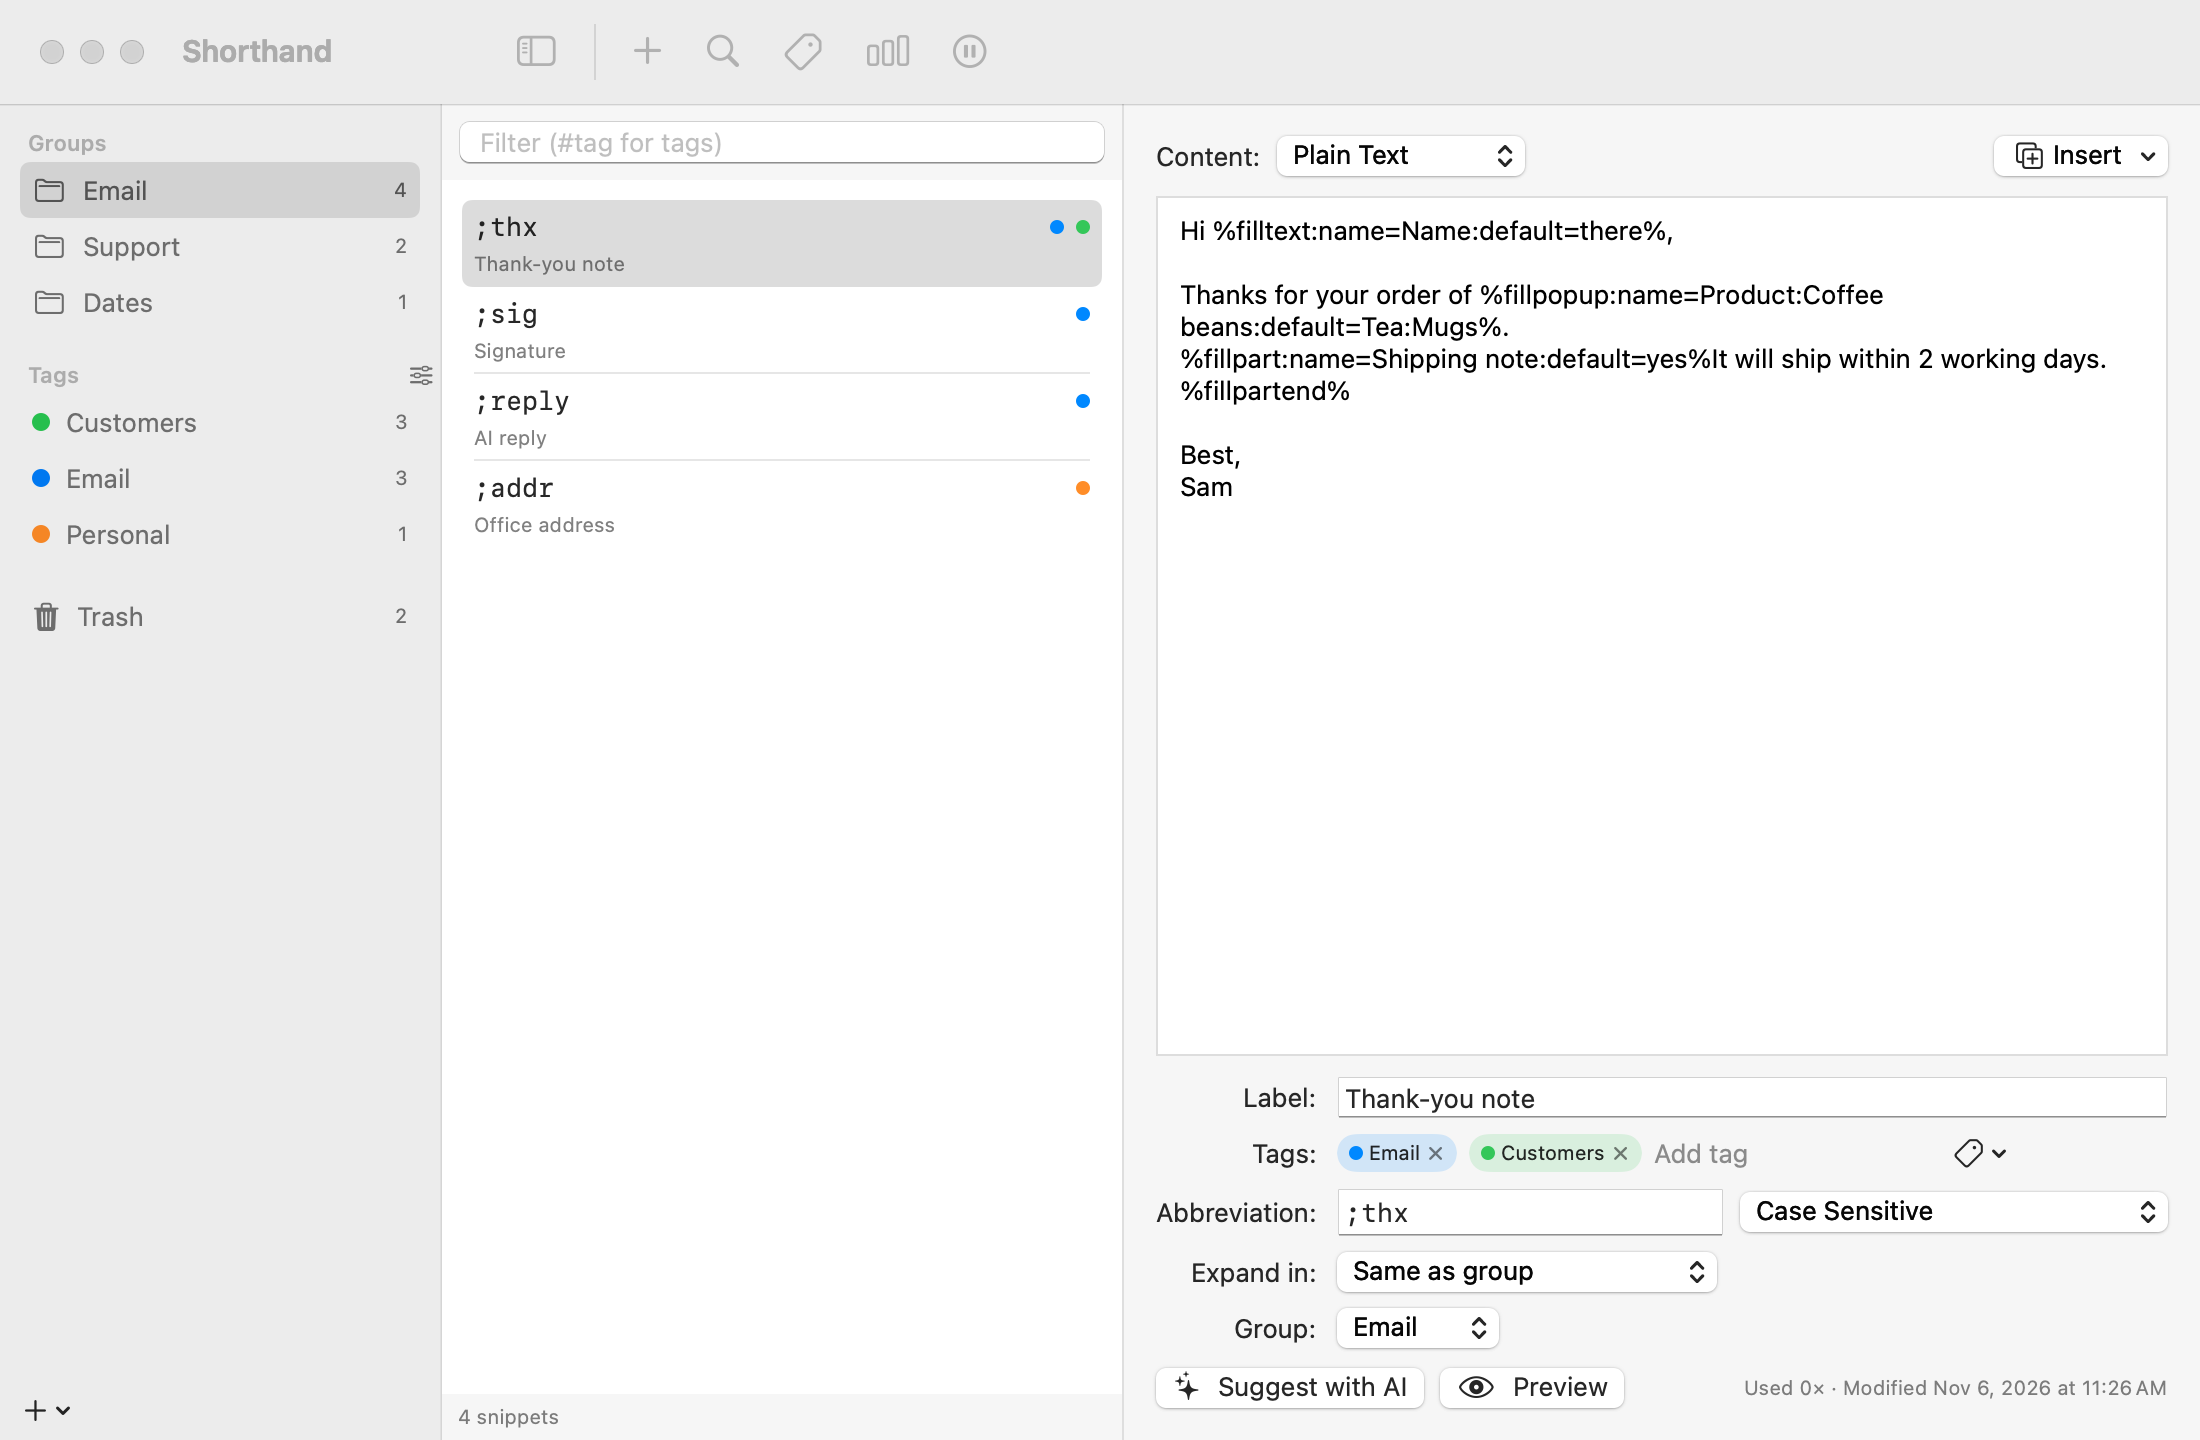
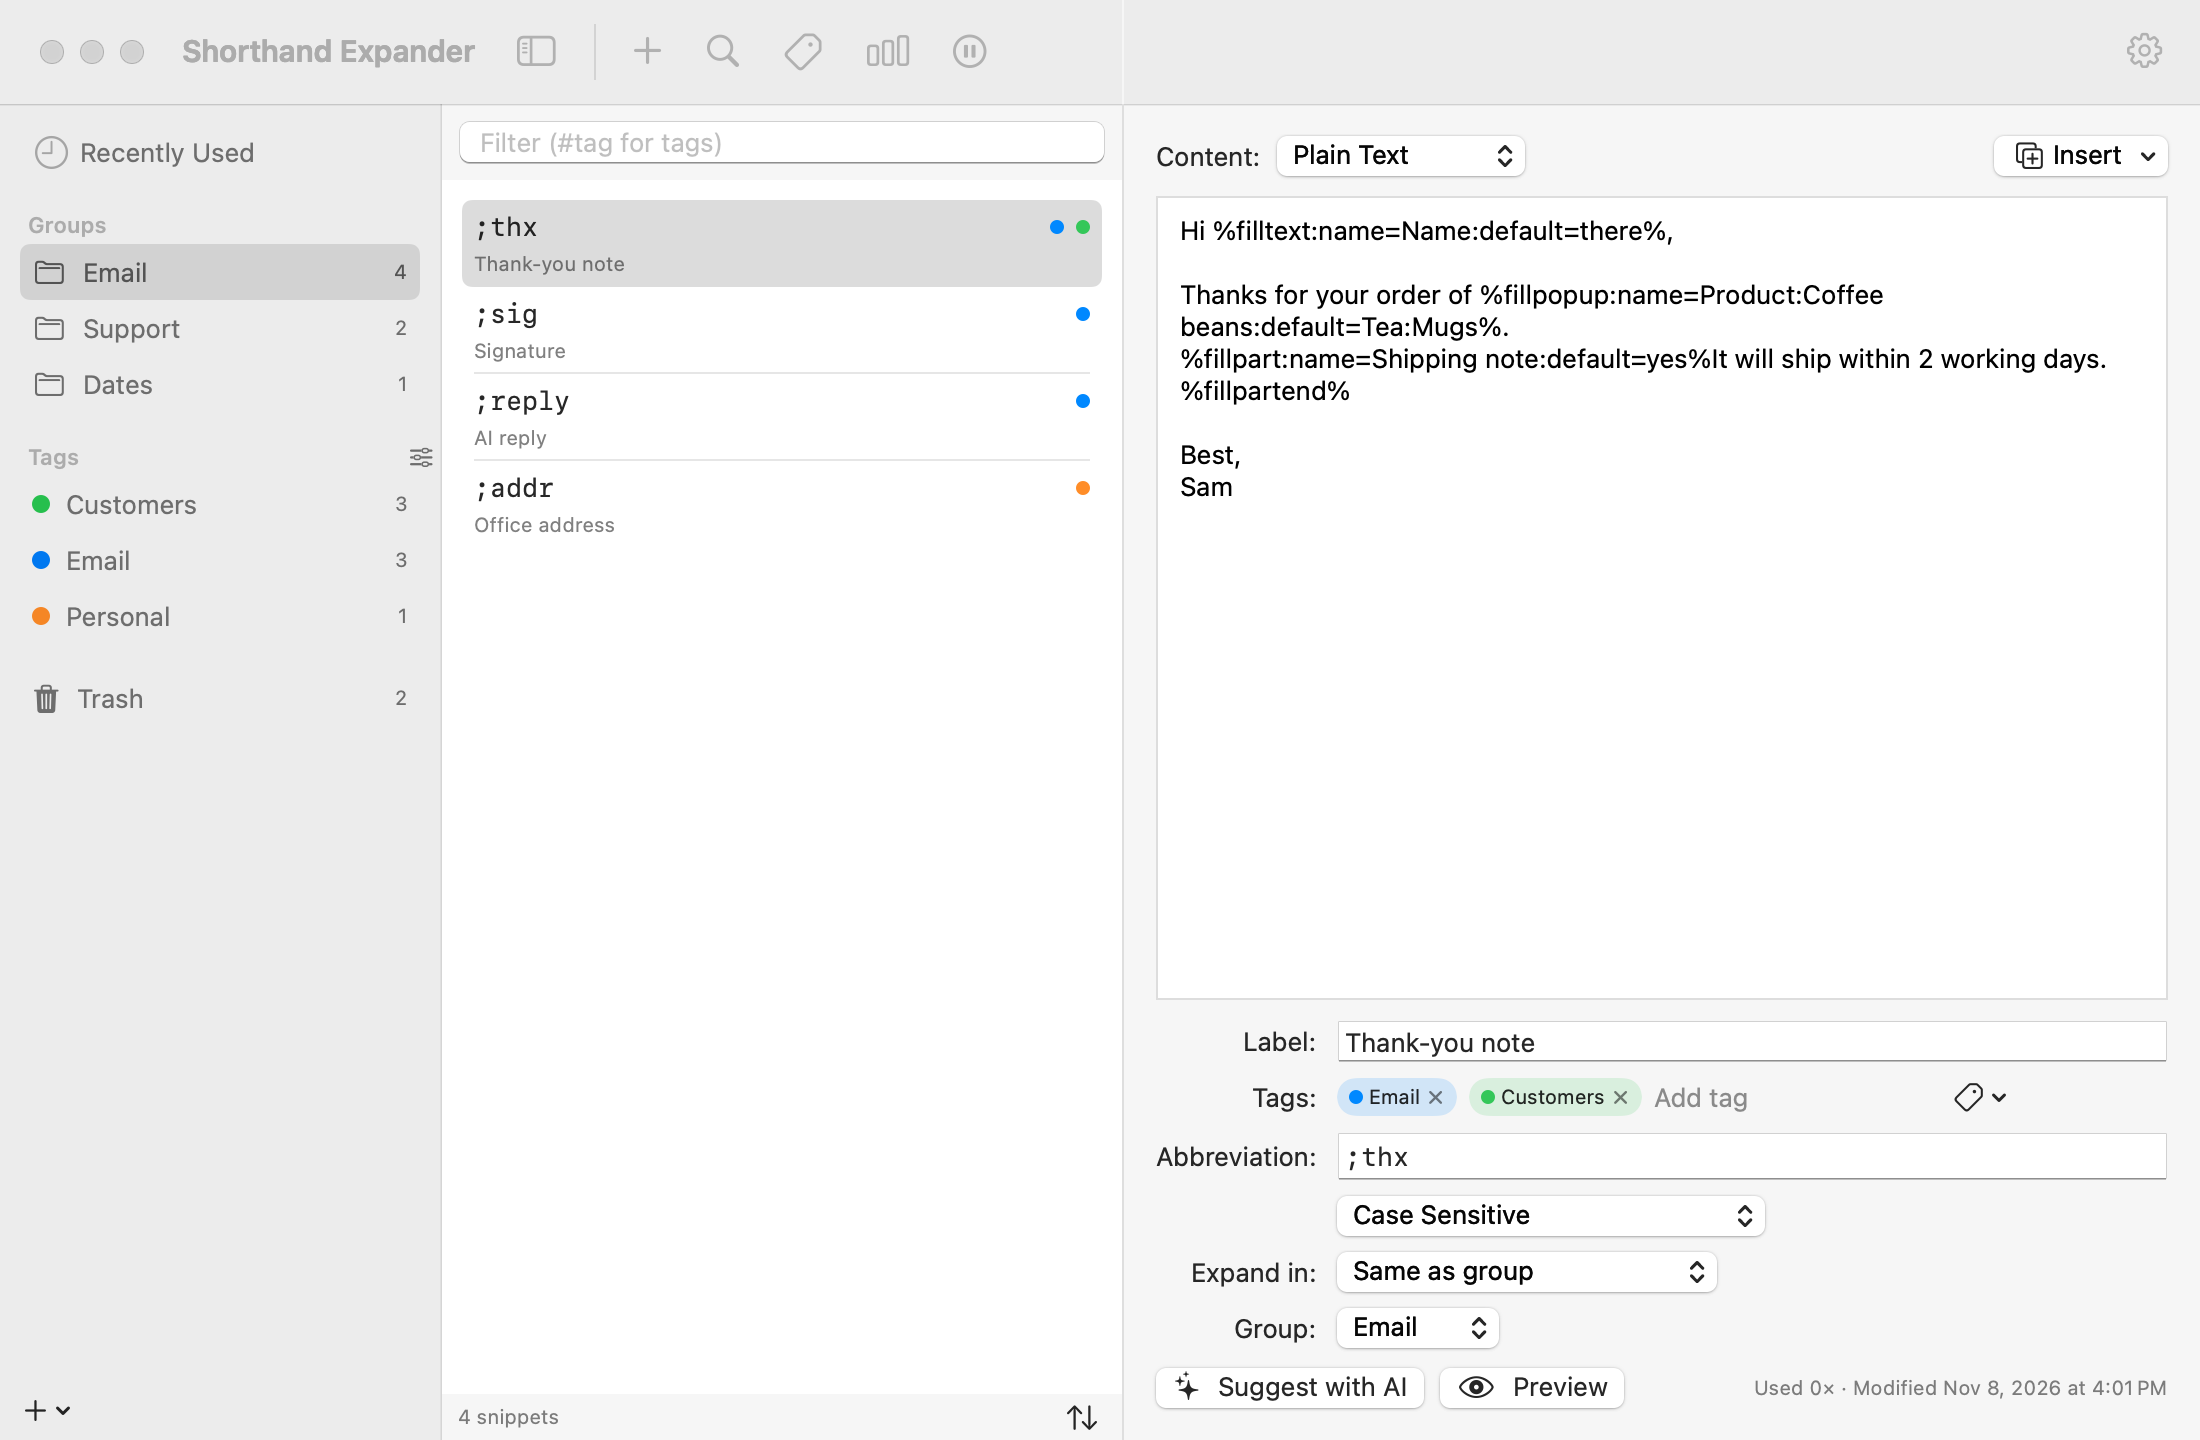
Docs for Shorthand 1.7.9

diff --git a/docs/snippets.html b/docs/snippets.html
@@ -45,9 +45,14 @@
 
 <h2 id="manage">Managing snippets</h2>
 <ul>
-<li><strong>Find a snippet:</strong> type in the <span class="ui">Filter</span> field above the list. Press <kbd>⌘F</kbd> or <kbd>⌃F</kbd> to jump to it. It matches abbreviations, labels, content, and tags. Start with <code>#</code> to match tags only, for example <code>#clients</code>.</li>
+<li><strong>Find a snippet:</strong> type in the <span class="ui">Filter</span> field above the list. Press <kbd>⌘F</kbd> or <kbd>⌃F</kbd> to jump to it. It matches abbreviations, labels, content, and tags. Start with <code>#</code> to match tags only, for example <code>#clients</code>. Matches are highlighted, and when a snippet matches only inside its text, a line of that text shows where. While you type, press <kbd>↓</kbd> or <kbd>↑</kbd> to select a snippet (<kbd>⌘</kbd><kbd>↓</kbd> and <kbd>⌘</kbd><kbd>↑</kbd> jump to the last and first), <kbd>Return</kbd> to move into the list, or <kbd>Esc</kbd> to clear the filter.</li>
+<li><strong>Sort the list:</strong> click the <span class="ui">⇅</span> button below the list and choose <span class="ui">Group Order</span>, <span class="ui">Abbreviation</span>, <span class="ui">Label</span>, <span class="ui">Most Used</span>, <span class="ui">Recently Used</span>, or <span class="ui">Recently Changed</span>. Shorthand Expander remembers your choice.</li>
+<li><strong>Peek at a snippet:</strong> hold the pointer over it in the list to see the start of its text.</li>
+<li><strong>Recently used:</strong> click <span class="ui">Recently Used</span> at the top of the sidebar to see the snippets you expanded most recently, newest first.</li>
+<li><strong>Jump to a group:</strong> press <kbd>⌘</kbd><kbd>1</kbd> through <kbd>⌘</kbd><kbd>9</kbd> to show the first nine groups in the sidebar.</li>
+<li><strong>Copy its abbreviation or text:</strong> right-click and choose <span class="ui">Copy Abbreviation</span> or <span class="ui">Copy Expanded Text</span> (the text the snippet types, with fill-ins at their defaults), for pasting where expansion is off.</li>
 <li><strong>Move it:</strong> drag it onto another group in the sidebar, use the <span class="ui">Group:</span> menu, or right-click and choose <span class="ui">Move to Group</span>.</li>
-<li><strong>Copy it:</strong> right-click and choose <span class="ui">Duplicate</span>. The copy’s abbreviation gets a number added (“1”, or the next free number).</li>
+<li><strong>Copy it:</strong> right-click and choose <span class="ui">Duplicate</span>, or press <kbd>⌘</kbd><kbd>D</kbd>. The copy’s abbreviation gets a number added (“1”, or the next free number).</li>
 <li><strong>Delete it:</strong> right-click and choose <span class="ui">Move to Trash</span>, or press <kbd>⌫</kbd>. It goes to the <a href="organize.html#trash">Trash</a>, where you can put it back later. Click <span class="ui">Undo</span> in the notice that appears, or press <kbd>⌘</kbd><kbd>Z</kbd>, to undo it straight away.</li>
 <li><strong>Tag it:</strong> type in the <span class="ui">Tags:</span> row of the editor. See <a href="organize.html#tags">Tags</a>.</li>
 <li><strong>Changed your mind?</strong> Moves, copies, deletes, and tag changes can be undone with <span class="ui">Edit ▸ Undo</span> (<kbd>⌘</kbd><kbd>Z</kbd>) while the snippet list or sidebar is active. See <a href="organize.html#undo">Undoing changes</a>.</li>
@@ -57,7 +62,12 @@
 <div class="tip"><p>To move, tag, copy, or delete many snippets at once, <kbd>⌘</kbd>-click or <kbd>⇧</kbd>-click them first. See <a href="organize.html">Tags, Trash &amp; Multi-Select</a>.</p></div>
 
 <h3 id="conflicts">Conflicts</h3>
-<p>An abbreviation shown in <strong>orange</strong> is the beginning of another abbreviation, for example <code>;addr</code> and <code>;addr2</code>. The editor lists them under <em>Conflicts with:</em>. Depending on your expansion mode, the shorter one may fire before you can finish typing the longer one. Rename one of them to fix it.</p>
+<p>An abbreviation shown in <strong>orange</strong> is the beginning of another abbreviation, for example <code>;addr</code> and <code>;addr2</code>. As you type an abbreviation, the editor checks it against all the others:</p>
+<ul>
+<li>An <strong>orange warning</strong> under the field means two snippets have the same abbreviation, or one expands before you can finish typing the other. Click the warning to show the other snippet, then rename one of them.</li>
+<li>A <strong>gray note</strong> means the abbreviations only start alike. With expansion at a space or punctuation (the default), each one expands when you finish it, so nothing needs fixing.</li>
+</ul>
+<p><span class="ui">File ▸ Tune Up Library…</span> lists every conflict at once.</p>
 
 <h2 id="groups">Groups</h2>
 <ol class="steps">

diff --git a/CHANGELOG.md b/CHANGELOG.md
@@ -1,11 +1,26 @@
 # Changelog
 
-> Doc version 1.7.8 · Last updated 2026-11-08
+> Doc version 1.7.9 · Last updated 2026-11-11
 
 All notable changes to Shorthand Expander™. Format: [Keep a Changelog](https://keepachangelog.com/en/1.1.0/). Versioning: [SemVer](https://semver.org/).
 Dates are local (Pacific).
 
-## [1.7.8] — Unreleased
+## [1.7.9] — Unreleased
+
+### Fixed
+- **Crash with fill-in snippets in some apps:** when an app reported no usable text-cursor position, Shorthand Expander tried to put the fill-in window at an impossible spot. macOS refused, nothing was typed, and the app crashed a few seconds later. Cursor positions from other apps are now checked, and fill-in, notice, and search windows always open on screen (near the cursor when it's known, otherwise centered on the screen with the pointer).
+
+### Changed
+- **Sort the snippet list:** a ⇅ button below the list sorts by group order, abbreviation, label, most used, recently used, or recently changed. The choice is remembered.
+- **Filter matches are highlighted,** and a snippet that matches only inside its text shows a line of that text.
+- **Recently Used** at the top of the sidebar lists the snippets you expanded most recently.
+- **Live abbreviation check:** as you type an abbreviation, the editor warns right under the field if it's the same as another or expands before you can finish another (click to show it). Prefixes that are harmless with your Expand setting get a gray note instead.
+- **Copy Abbreviation and Copy Expanded Text** in a snippet's right-click menu.
+- **Shortcuts:** ⌘D duplicates the selected snippets (or groups), ⌘1–⌘9 show the first nine groups, and ⌘↑/⌘↓ jump to the first and last snippet.
+- **Hover a snippet** in the list to see the start of its text.
+- **Arrow keys in the filter:** while typing, ↓ and ↑ select snippets in the list, Return moves into the list, and Esc clears the filter.
+
+## [1.7.8] — 2026-11-08
 
 ### Changed
 - **Wider abbreviation field:** in the snippet editor the Abbreviation field now spans the full width, with the case menu below it, so long abbreviations stay readable. The field in the New Snippet window is wider too.

diff --git a/README.md b/README.md
@@ -6,7 +6,7 @@
 
 **[⬇ Download the latest version](https://github.com/jkirker/shorthand-text-expander-mac/releases/latest)** · [Website](https://shorthandexpander.com/) · [Help](https://shorthandexpander.com/help/) · [Features](FEATURES.md) · [What's new](CHANGELOG.md) · [Privacy](PRIVACY.md) · [Security](SECURITY.md) · [License](LICENSE.md)
 
-Current version: **1.7.8** · macOS 14 or later · Apple Silicon · signed with a Developer ID and notarized by Apple.
+Current version: **1.7.9** · macOS 14 or later · Apple Silicon · signed with a Developer ID and notarized by Apple.
 
 ## Highlights
 - **Nearly everything TextExpander does:** abbreviations, fill-ins (text, choices, optional sections), dates and date math, the clipboard, nested snippets, keys and cursor placement, per-app rules, and formatted text.
@@ -29,7 +29,7 @@ Current version: **1.7.8** · macOS 14 or later · Apple Silicon · signed with 
 </tr></table>
 
 ## Install
-1. Download **Shorthand-1.7.8.dmg** from [Releases](https://github.com/jkirker/shorthand-text-expander-mac/releases/latest).
+1. Download **Shorthand-1.7.9.dmg** from [Releases](https://github.com/jkirker/shorthand-text-expander-mac/releases/latest).
 2. Open it and drag **Shorthand** onto the **Applications** shortcut, then open it from Applications.
 3. Accept the license agreement, then follow the setup: grant **Accessibility**, then import from TextExpander if you like.
 
